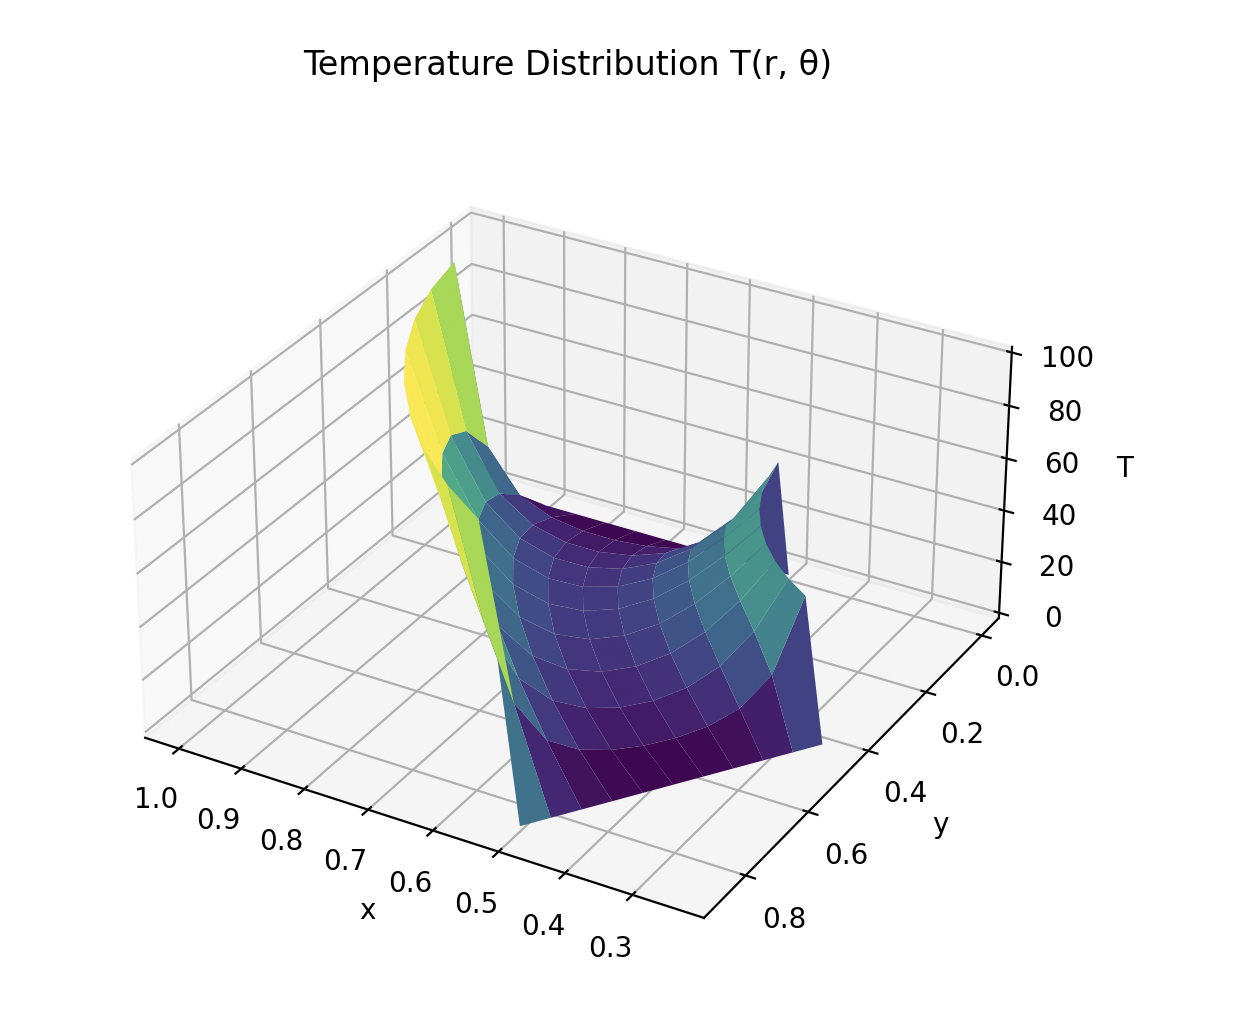
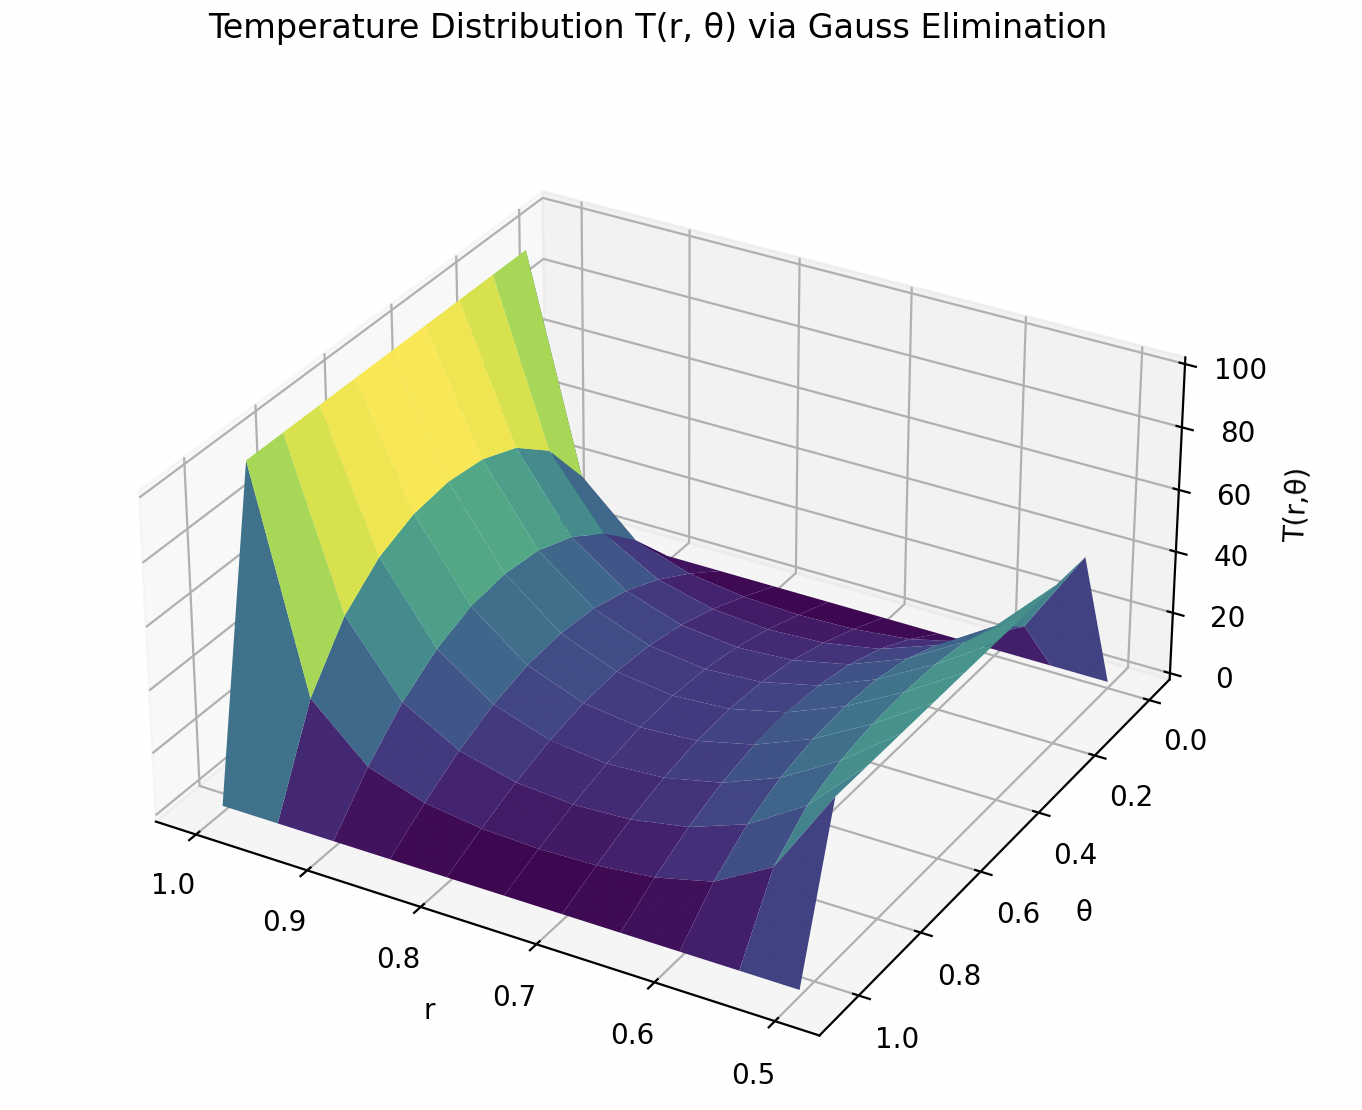
改12_3座標

diff --git a/12_3.py b/12_3.py
@@ -1,13 +1,12 @@
 import numpy as np
 import matplotlib.pyplot as plt
 
-Nr = 10 
-Ntheta = 10  
+# 格點設定
+Nr = 10
+Ntheta = 10
 
-r_min = 0.5
-r_max = 1.0
-theta_min = 0
-theta_max = np.pi / 3
+r_min, r_max = 0.5, 1.0
+theta_min, theta_max = 0, np.pi / 3
 
 dr = (r_max - r_min) / Nr
 dtheta = (theta_max - theta_min) / Ntheta
@@ -15,46 +14,74 @@ dtheta = (theta_max - theta_min) / Ntheta
 r = np.linspace(r_min, r_max, Nr + 1)
 theta = np.linspace(theta_min, theta_max, Ntheta + 1)
 
+# 內部點數量
+n = Nr - 1
+m = Ntheta - 1
+size = n * m
+
+# 建立 A 矩陣與 F 向量
+A = np.zeros((size, size))
+F = np.zeros(size)
+
+for i in range(1, Nr):
+    for j in range(1, Ntheta):
+        index = (i - 1) * m + (j - 1)
+        ri = r[i]
+        alpha = (ri * dtheta / dr) ** 2
+
+        A[index, index] = -2 * (1 + alpha)
+        if i > 1:
+            A[index, index - m] = 1
+        else:
+            F[index] -= 1 * 50  # T = 50 at r = 0.5
+
+        if i < Nr - 1:
+            A[index, index + m] = 1
+        else:
+            F[index] -= 1 * 100  # T = 100 at r = 1.0
+
+        if j > 1:
+            A[index, index - 1] = alpha
+        else:
+            F[index] -= alpha * 0  # T = 0 at theta = 0
+
+        if j < Ntheta - 1:
+            A[index, index + 1] = alpha
+        else:
+            F[index] -= alpha * 0  # T = 0 at theta = pi/3
+
+# 解線性系統 AU = F
+U = np.linalg.solve(A, F)
+
+# 重組解至 T 陣列
 T = np.zeros((Nr + 1, Ntheta + 1))
+for i in range(1, Nr):
+    for j in range(1, Ntheta):
+        idx = (i - 1) * m + (j - 1)
+        T[i, j] = U[idx]
 
-T[0, :] = 50            # T(r=0.5, theta)
-T[Nr, :] = 100          # T(r=1.0, theta)
-T[:, 0] = 0             # T(r, theta=0)
-T[:, Ntheta] = 0        # T(r, theta=pi/3)
+# 邊界條件
+T[0, :] = 50
+T[Nr, :] = 100
+T[:, 0] = 0
+T[:, Ntheta] = 0
 
-max_iter = 10000
-tolerance = 1e-6
+# 建立極座標網格與轉換為直角座標
+R, Theta = np.meshgrid(r, theta)   
+# X = R * np.cos(Theta)
+# Y = R * np.sin(Theta)
+T = np.array(T).T 
 
-for iteration in range(max_iter):
-    T_old = T.copy()
-    for i in range(1, Nr):
-        for j in range(1, Ntheta):
-            ri = r[i]
-            alpha = (ri * dtheta / dr)**2
-
-            T[i, j] = 1 / (2 * (1 + alpha)) * (
-                T_old[i + 1, j] + T_old[i - 1, j] +
-                alpha * (T_old[i, j + 1] + T_old[i, j - 1])
-            )
-
-    if np.max(np.abs(T - T_old)) < tolerance:
-        print(f"Converged at iteration {iteration}")
-        break
-
-R, Theta = np.meshgrid(r, theta, indexing='ij')
-X = R * np.cos(Theta)
-Y = R * np.sin(Theta)
-
-
+# 繪製 3D 曲面圖
 fig = plt.figure(figsize=(8, 6))
 ax = fig.add_subplot(111, projection='3d')
-ax.plot_surface(X, Y, T, cmap='viridis')
+ax.plot_surface(R, Theta, T, cmap='viridis')
 
-ax.set_box_aspect([1, 1, 0.5])  # x:y:z 的比例
+ax.set_box_aspect([1, 1, 0.5])
 ax.view_init(elev=30, azim=120)
-ax.set_title('Temperature Distribution T(r, θ)')
-ax.set_xlabel('x')
-ax.set_ylabel('y')
-ax.set_zlabel('T')
+ax.set_title('Temperature Distribution T(r, θ) via Gauss Elimination')
+ax.set_xlabel('r')
+ax.set_ylabel('θ')
+ax.set_zlabel('T(r,θ)')
+plt.tight_layout()
 plt.show()
-
